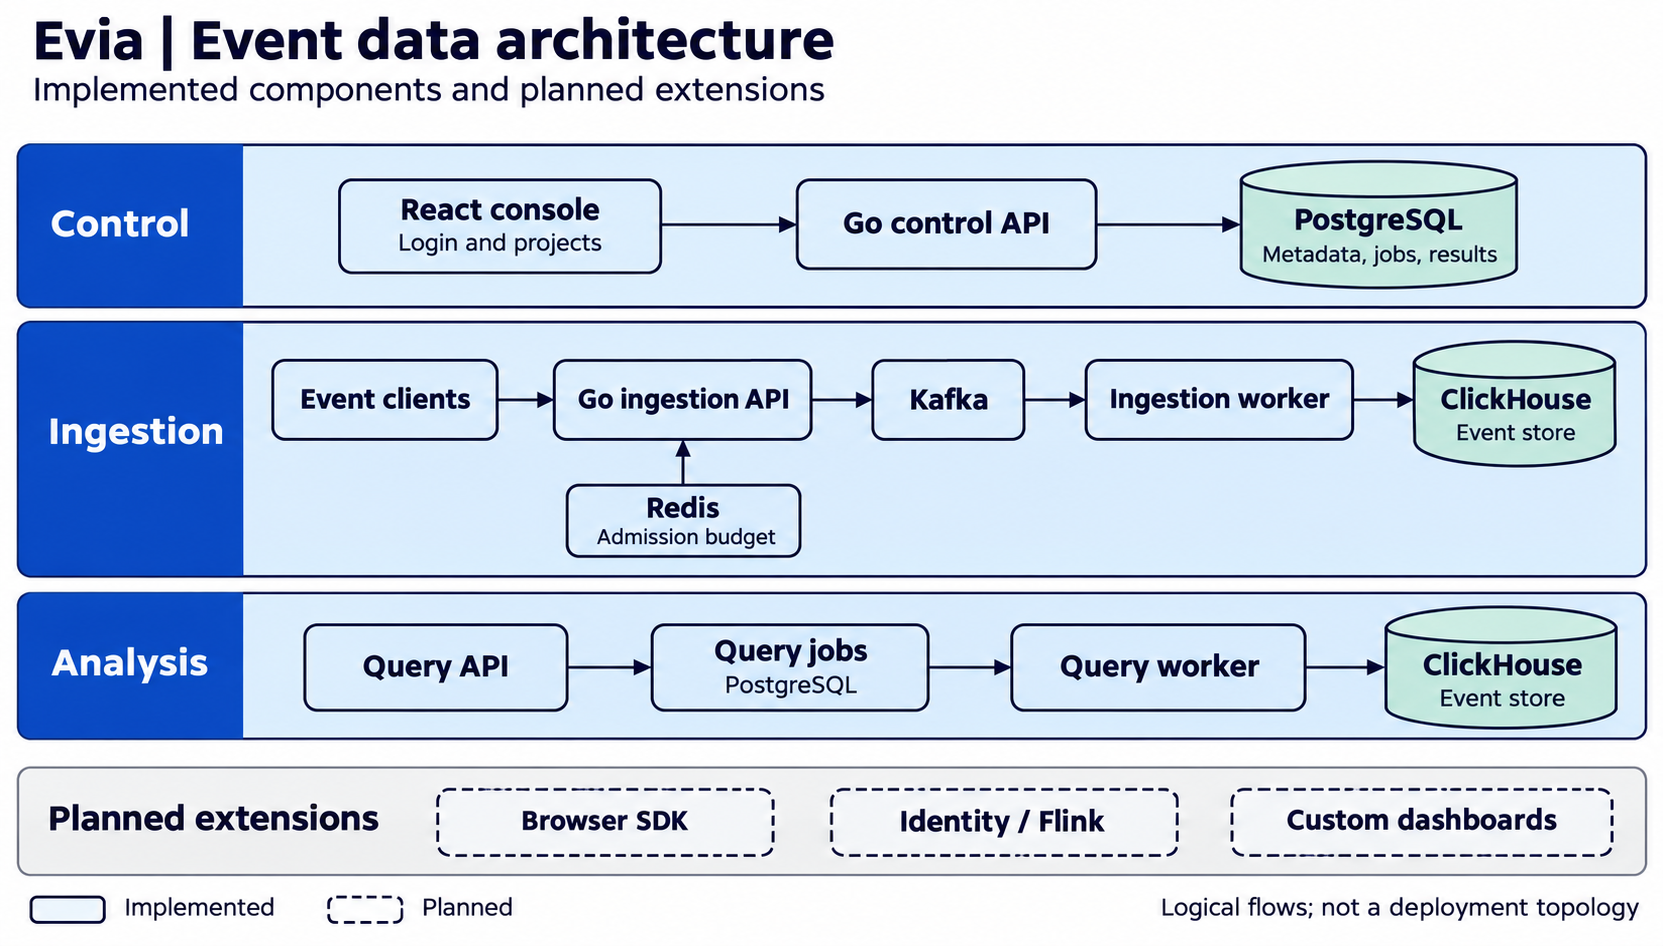
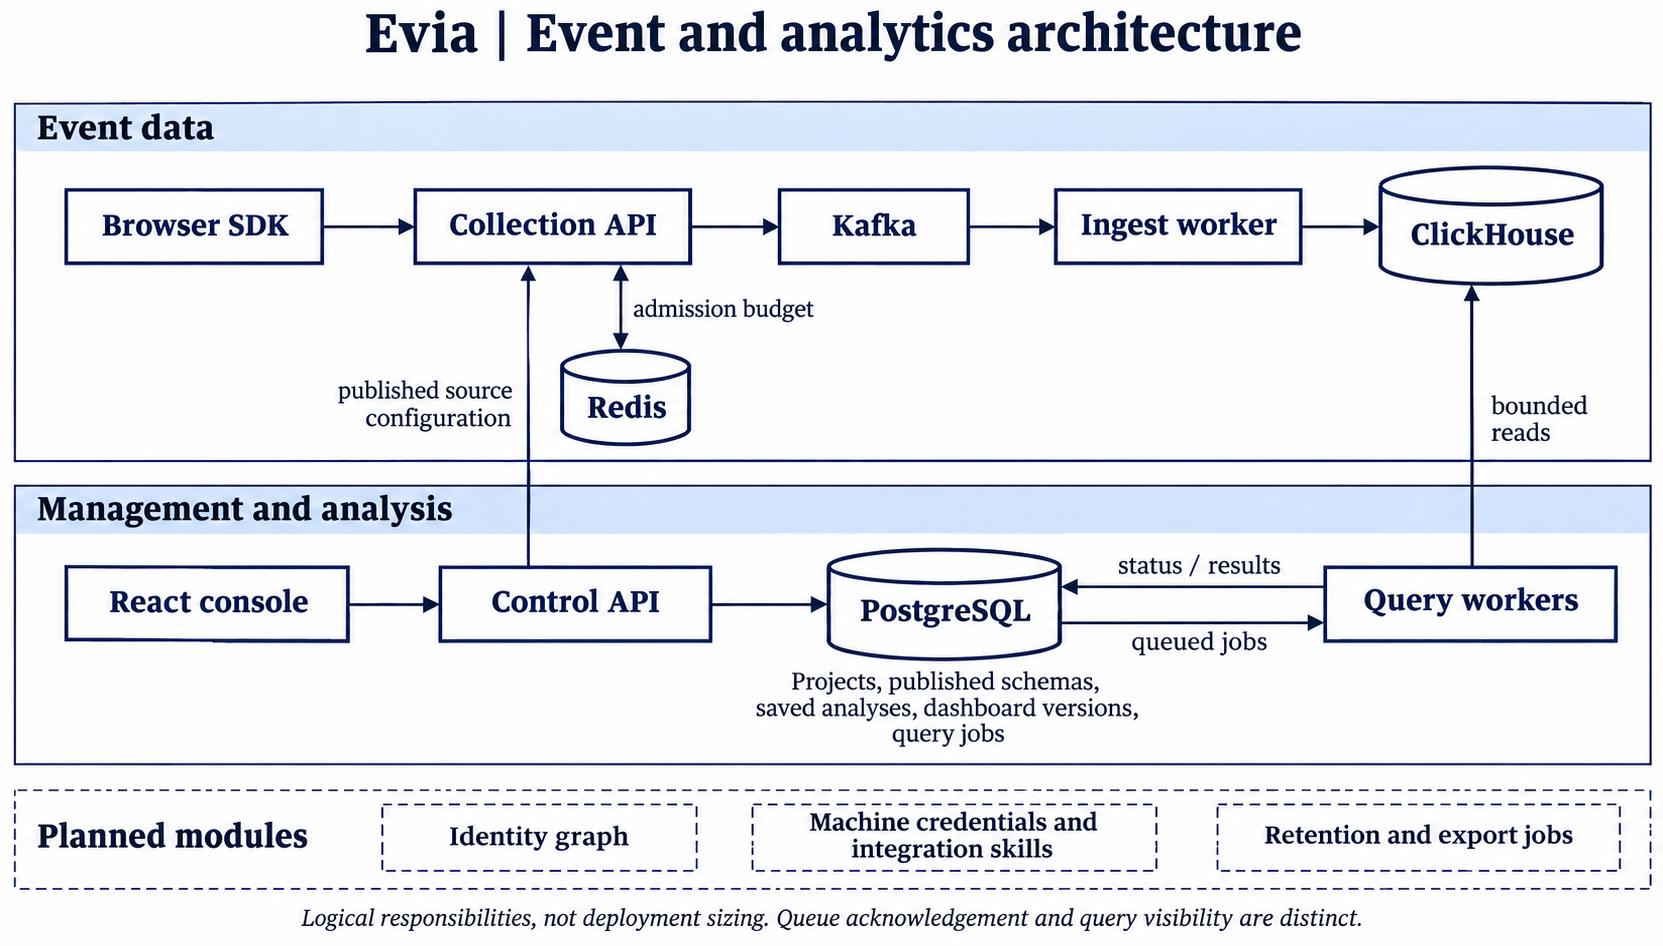
docs(readme): show current architecture and real dashboard screens
Update the ImageGen architecture figure to distinguish implemented and planned responsibilities. Include unedited desktop/mobile captures from synthetic data on the verified production console build.

diff --git a/README.md b/README.md
@@ -2,18 +2,23 @@
 
 私有化事件采集与用户行为分析平台。以业务事件定义、稳定用户身份和可解释的分析口径，把页面访问、阅读和互动连接起来。
 
-当前已实现会话与项目管理、事件定义、来源管理、Redis 配额、Kafka 到 ClickHouse 写入，以及真实管道验证后的发布激活和公开配置。分析支持受权字段发现、固定事件版本、有界指标/趋势/行为链/有序漏斗查询，以及可编辑、校验、发布和按版本运行的[保存分析](docs/saved-analyses.md)。
+当前功能包括项目与会话、事件/字段定义、不可变发布与激活、接入来源、Kafka 到 ClickHouse 写入，以及计数、UV、趋势、原始身份行为链和有序漏斗。保存分析支持编辑、校验、版本发布和运行。
 
-控制台使用自建原生组件，提供结构化编辑、多指标图表和完整结果表。模块按编辑、发布、执行和结果职责拆分，依赖边界与运行时循环检查进入 CI。完整浏览器回归 **38 项通过**，模块与交互规范见[前端职责说明](docs/standards/frontend-modules.md)。
+本轮补充了两个核心模块：
 
-真实压测完成十万、百万事件上报和存储核对，已加入紧凑胜出排序列与身份投影。百万数据上的指定 UID 筛选、行为链和有序漏斗 **273 / 273 通过**；默认双工作任务配置仍有并发内存拒绝，完整属性查询仍超预算。全部成功/失败、升级步骤及配置复验见[百万查询报告](docs/verification/query-capacity-2026-11-09.md)。自定义看板、独立指标注册、机器令牌和浏览器 SDK 等仍待交付，完整状态见 [PROGRESS.md](PROGRESS.md)。
+- [浏览器 SDK](docs/browser-sdk.md)：零运行时依赖，读取已发布事件配置，显式上报自定义事件，保留用户/页面/导航上下文，支持有界队列与不可变重试。当前提供工作区源码和本地打包，尚未发布 npm。
+- [版本化看板](docs/dashboards.md)：服务端支持 1–12 个分析组件、布局、固定版本、统一时间范围、逐图筛选、原子入队与取消；控制台支持键盘布局、版本切换、冲突恢复和真实多图结果。
+
+机器凭据、公开接入 skills、跨身份合并、独立指标注册、成员管理、导出和数据生命周期仍未完整交付。[功能覆盖清单](docs/feature-coverage.md)逐项列出已实现、部分实现和缺口，[PROGRESS.md](PROGRESS.md)保存实际验证记录。正式 OpenAPI 中的早期未实现占位操作已移至待办。
+
+百万事件上报和存储核对已有真实压测证据。指定 UID 筛选、行为链和有序漏斗 **273 / 273 通过**，默认双工作任务的完整矩阵仍只有 **514 / 728 成功**；属性读取和共享内存预算仍有失败，详见[百万查询报告](docs/verification/query-capacity-2026-11-09.md)。当前结果不构成千万用户容量或生产就绪声明。
 
 <details>
-<summary>查看保存分析界面</summary>
+<summary>查看自定义看板</summary>
 
-![保存分析控制台：固定版本、执行范围、多指标分组图和完整结果表。](docs/assets/saved-analysis-desktop.png)
+![自定义看板：固定分析版本、统一时间、逐图筛选和真实趋势/对比结果。](docs/assets/dashboard-desktop.png)
 
-使用合成事件，经真实 API 与查询工作进程生成结果。[移动端截图](docs/assets/saved-analysis-mobile.png) 展示相同版本和数据，表格可在自身区域横向滚动。
+使用合成事件，经真实 API 与查询工作进程生成结果。[移动端截图](docs/assets/dashboard-mobile.png) 展示相同版本和数据，图表随卡片缩放，宽表格在自身区域横向滚动。
 
 </details>
 
@@ -30,9 +35,9 @@
 
 ## 架构概览
 
-![Evia 数据架构：控制台经 Go API 使用 PostgreSQL，事件经接收 API、Kafka 和写入工作进程进入 ClickHouse，Redis 提供接入预算，查询工作进程消费 PostgreSQL 任务并读取 ClickHouse。浏览器 SDK、身份处理和自定义看板为规划模块。](docs/assets/event-data-architecture.png)
+![Evia 数据架构：控制台经 Go API 使用 PostgreSQL，事件经接收 API、Kafka 和写入工作进程进入 ClickHouse，Redis 提供接入预算，查询工作进程消费 PostgreSQL 任务并读取 ClickHouse。浏览器 SDK 与看板版本已实现，身份图、机器凭据和数据生命周期为规划模块。](docs/assets/event-data-architecture.png)
 
-图 1，平台逻辑链路。实线框表示已实现模块，虚线框表示规划模块；重复出现的数据库表示同一存储职责，图中分层不代表独立部署实例。容量目标及验证边界见 [架构说明](docs/architecture.md) 和 [开发进度](PROGRESS.md)。
+图 1，平台逻辑链路。实线框表示已实现模块，虚线框表示规划模块；管理与采集 API 是同一 Go 运行时的职责划分，连接表示数据和配置依赖，不代表独立部署实例。容量目标及验证边界见 [架构说明](docs/architecture.md) 和 [开发进度](PROGRESS.md)。
 
 ## 启动与验证
 
@@ -54,29 +59,28 @@ make browser-test
 
 ## 技术方向
 
-Go 服务端、React 管理控制台；PostgreSQL 管理元数据，Kafka 缓冲事件，ClickHouse 支撑分析，Redis 提供分布式接入配额。有状态的身份图与 Flink 处理单独规划。后续 TypeScript 浏览器 SDK 和公开接入 skill 将支持业务方在自己的仓库维护网站专属代码。
+Go 服务端、React 管理控制台；PostgreSQL 管理元数据，Kafka 缓冲事件，ClickHouse 支撑分析，Redis 提供分布式接入配额。有状态的身份图与 Flink 处理单独规划。TypeScript 浏览器 SDK 支持业务方在自己的仓库维护网站事件调用；公开接入 skills 与机器认证仍待实现。
 
 发布定义保存后先等待交付验证：带项目、环境和版本范围的探针经过真实 Kafka 写入及 ClickHouse 回读，形成有期限的就绪租约；随后通过显式版本比较和幂等键激活。`ingestion_ready` 按有效租约派生，租约过期会失去就绪资格。公开配置先验证来源与发布资格，再处理 ETag。千万用户仍是架构目标，尚未进行对应硬件、流量分布和故障条件下的容量验证。
 
-![Evia 版本化分析模型：事件定义经过发布、管道验证和显式激活；保存分析固定已发布事件版本，经校验和不可变发布后绑定时间与时区，使用共享查询任务执行。独立指标注册、看板布局和机器身份仍在规划中。](docs/assets/versioned-analytics-model.png)
-
-图 2，事件与保存分析的版本流程。事件发布不等于允许接收；分析校验不执行查询，运行时显式选择不可变版本、时间范围和时区。看板与机器身份的后续设计见 [自定义看板方案](docs/plans/custom-dashboards.md)。两图由 ImageGen 生成并按仓库现状校对，[维护说明](docs/assets/README.md) 记录了语义来源。
+已发布事件版本由保存分析固定引用，看板再固定保存分析版本。校验不执行查询，发布不修改历史版本；运行显式绑定时间范围、时区和逐图筛选，使用现有共享任务预算。看板的一次入队是原子的，各图结果不是跨查询的原子数据快照。完整语义见[看板说明](docs/dashboards.md)。图 1 由 ImageGen 生成并按实现校对，[维护说明](docs/assets/README.md)记录语义来源。
 
 ## 仓库布局
 
-| 目录 | 职责 |
-| --- | --- |
-| `backend/` | 单一 Go 模块，应用策略、HTTP 边界、持久化适配分别组织 |
-| `contracts/` | OpenAPI、JSON Schema 与合成数据契约样例 |
-| `apps/console/` | 控制台业务页面 |
-| `packages/design-system/` | 共享主题、布局和交互组件 |
-| `packages/api-client/` | 生成的接口类型及统一请求处理 |
-| `.agents/skills/` | 平台内部开发规范 |
-| `deploy/`、`tooling/` | 本地依赖、迁移、生成与验证工具 |
+| 目录                      | 职责                                                  |
+| ------------------------- | ----------------------------------------------------- |
+| `backend/`                | 单一 Go 模块，应用策略、HTTP 边界、持久化适配分别组织 |
+| `contracts/`              | OpenAPI、JSON Schema 与合成数据契约样例               |
+| `apps/console/`           | 控制台业务页面                                        |
+| `packages/design-system/` | 共享主题、布局和交互组件                              |
+| `packages/api-client/`    | 生成的接口类型及统一请求处理                          |
+| `packages/browser-sdk/`   | 独立浏览器事件 SDK、类型及有界资源测试                |
+| `.agents/skills/`         | 平台内部开发规范                                      |
+| `deploy/`、`tooling/`     | 本地依赖、迁移、生成与验证工具                        |
 
 控制台采用 Evia 自建 React/原生 HTML 组件，Ant Design 及其依赖已移除。共享组件覆盖键盘和鼠标状态、表单校验、焦点恢复、弹窗、通知、Tab 与未保存内容保护。专业趋势和漏斗图按需加载 ECharts，并提供对应结果表；普通页面不会加载图表渲染模块。此前基础组件迁移的体积比较见 [前端验证记录](docs/verification/native-ui-2026-11-07.md)，不能将该比例当作新增业务功能后的总体体积结论。
 
-自定义指标、看板配置及供 coding agent 使用的同一套公开 API 已形成 [设计方案](docs/plans/custom-dashboards.md)。目前实现会话认证的发现、校验、保存分析与版本运行，独立指标注册、看板协调和机器认证运行时尚未实现。浏览器 SDK、`sys.*` 内置事件运行时注册、身份关系图、成员管理、数据生命周期、看板导出及公开接入 skills/CLI 仍待交付。保存单个分析不等于可布局的自定义看板；`sys.*` 当前保留契约样例，页面事件计数使用显式发布的自定义事件。
+当前管理 API 使用控制台会话认证。来源写凭据只能上报事件，不能代替机器管理凭据。`sys.*` 仍只有契约样例，页面计数使用业务方显式发布的自定义页面事件；SDK 的导航上下文目前覆盖单个客户端实例内的 SPA，跨文档会话连续性与匿名历史合并另列待办。
 
 ## 工程规范
 

diff --git a/docs/assets/README.md b/docs/assets/README.md
@@ -1,11 +1,11 @@
 # README figures and console screenshots
 
-The two conceptual figures below were generated with ImageGen. The event-data figure was reviewed on 2026-11-08 and the versioned-analysis figure was regenerated and reviewed on 2026-11-09 (Asia/Shanghai). They illustrate logical relationships, not measured performance or production capacity. PNG originals are committed locally so the README does not depend on an external image host.
+The conceptual figures below were generated with ImageGen. The current event-data figure was regenerated and visually reviewed on 2026-11-09 UTC after the SDK and dashboard backend delivery. The earlier versioned-analysis figure is retained as a historical illustration and is no longer embedded in the README. They illustrate logical relationships, not measured performance or production capacity. PNG originals are committed locally so the README does not depend on an external image host.
 
-| Figure                                                     | Meaning                                                                                           | Authoritative references                                                                                                     |
-| ---------------------------------------------------------- | ------------------------------------------------------------------------------------------------- | ---------------------------------------------------------------------------------------------------------------------------- |
-| [Event data architecture](event-data-architecture.png)     | Existing control, ingestion and query flows, with planned SDK, identity processing and dashboards | [Architecture](../architecture.md), [progress](../../PROGRESS.md), [backend evidence](../verification/backend-2026-11-07.md) |
-| [Versioned analytics model](versioned-analytics-model.png) | Implemented event lifecycle and directly pinned saved analyses, with planned reporting extensions                      | [Releases](../releases.md), [saved analyses](../saved-analyses.md), [dashboard proposal](../plans/custom-dashboards.md)                                              |
+| Figure                                                     | Meaning                                                                                                                         | Authoritative references                                                                                                     |
+| ---------------------------------------------------------- | ------------------------------------------------------------------------------------------------------------------------------- | ---------------------------------------------------------------------------------------------------------------------------- |
+| [Event data architecture](event-data-architecture.png)     | Implemented SDK, control, ingestion, dashboard metadata and query flows; planned identity, machine access and lifecycle modules | [Architecture](../architecture.md), [progress](../../PROGRESS.md), [backend evidence](../verification/backend-2026-11-07.md) |
+| [Versioned analytics model](versioned-analytics-model.png) | Historical pre-dashboard snapshot of the event and saved-analysis lifecycle                                                     | [Releases](../releases.md), [saved analyses](../saved-analyses.md), [dashboard proposal](../plans/custom-dashboards.md)      |
 
 ## Semantics to preserve
 
@@ -14,13 +14,14 @@ The two conceptual figures below were generated with ImageGen. The event-data fi
 - The control lane illustrates console access and API responsibilities. The console now also exposes event, release, source and analysis workspaces; the small access label is not an exhaustive page inventory. Consult PROGRESS.md for current feature evidence.
 - Published definitions remain immutable. Real Kafka/ClickHouse delivery verification yields a time-limited readiness lease; activation is explicit. Publishing alone does not authorize ingestion.
 - Saved analyses directly pin immutable published event versions. Draft validation/diff is read only; publication is immutable; execution binds real time/timezone and uses the existing shared query budget and current session authorization.
-- The metric registry, dashboard layouts and machine-authenticated Agent API are planned, shown separately with dashed borders. The implemented saved-analysis session API does not provide machine bearer authentication.
+- Dashboards pin saved-analysis versions and enqueue their child queries atomically. Workers execute these queries independently; the figure does not imply an atomic cross-widget result snapshot. The metric registry and machine-authenticated Agent API remain planned.
+- Source configuration flows through the shared PostgreSQL-backed services; the upward configuration arrow is a logical dependency, not a separate network hop between API processes.
 
 ## Updating the artwork
 
 Use ImageGen with a white landscape canvas, legible English labels, consistent navy outlines, restrained blue and teal, aligned panels, solid existing modules and dashed planned modules. Keep legends and short notes. Do not add decorative plots, fabricated metrics or capacity claims.
 
-For the architecture figure, retain three independent logical lanes: control, ingestion and analysis. Connect Redis only to ingestion admission. Keep planned extensions in a separate region.
[1 lines of base64/hex data omitted]
 
 For the versioning figure, retain three panels: implemented event draft/validate/publish/verify/activate; implemented directly schema-pinned saved analysis draft/validate-and-diff/publish/bind-time-and-zone/shared-query-job through the session API; and planned metric registry/dashboard layouts/machine-authenticated Agent API. Do not insert the future metric registry as a required dependency of current saved analyses.
 
@@ -43,3 +44,5 @@ With optional Matplotlib installed, regenerate from the repository root using `M
 `capacity-2026-11-09.svg` plots the complete two-worker million-event matrix from [the subsequent measured evidence](../verification/data/capacity-2026-11-09.json). Panel A includes every first-observed and repeated attempt, with failed attempts shown explicitly. Panel B uses only successful-sample end-to-end p95 at client concurrency 1, 4 and 8; it does not imply those workloads were free of failures. The separate smaller single-worker profile is not mixed into this figure.
 
 Regenerate with `MPLCONFIGDIR=/tmp/evia-matplotlib python3 tooling/benchmark/plot_query_capacity.py`. This Matplotlib figure uses a fixed SVG identifier salt and omits generated date metadata. The rendered PNG preview was visually inspected for labels, units, legends and clipping, and outcome counts were checked against the JSON. Conditions, failed queries and deployment limitations are documented in [the query capacity report](../verification/query-capacity-2026-11-09.md).
+
+`dashboard-desktop.png` and `dashboard-mobile.png` are unedited captures from the real dashboard/SDK browser workflow on 2026-11-09. Production entry `/assets/index-C_5Zmr32.js` uses API/runtime migration 009. Two published analysis widgets show count 3 and raw-UID distinct count 2 from synthetic facts. The mobile chart fits its card; only wide result tables scroll horizontally. See the [verification record](../verification/dashboards-sdk-2026-11-09.md) for failed baselines, revised layout bounds and final checks.
